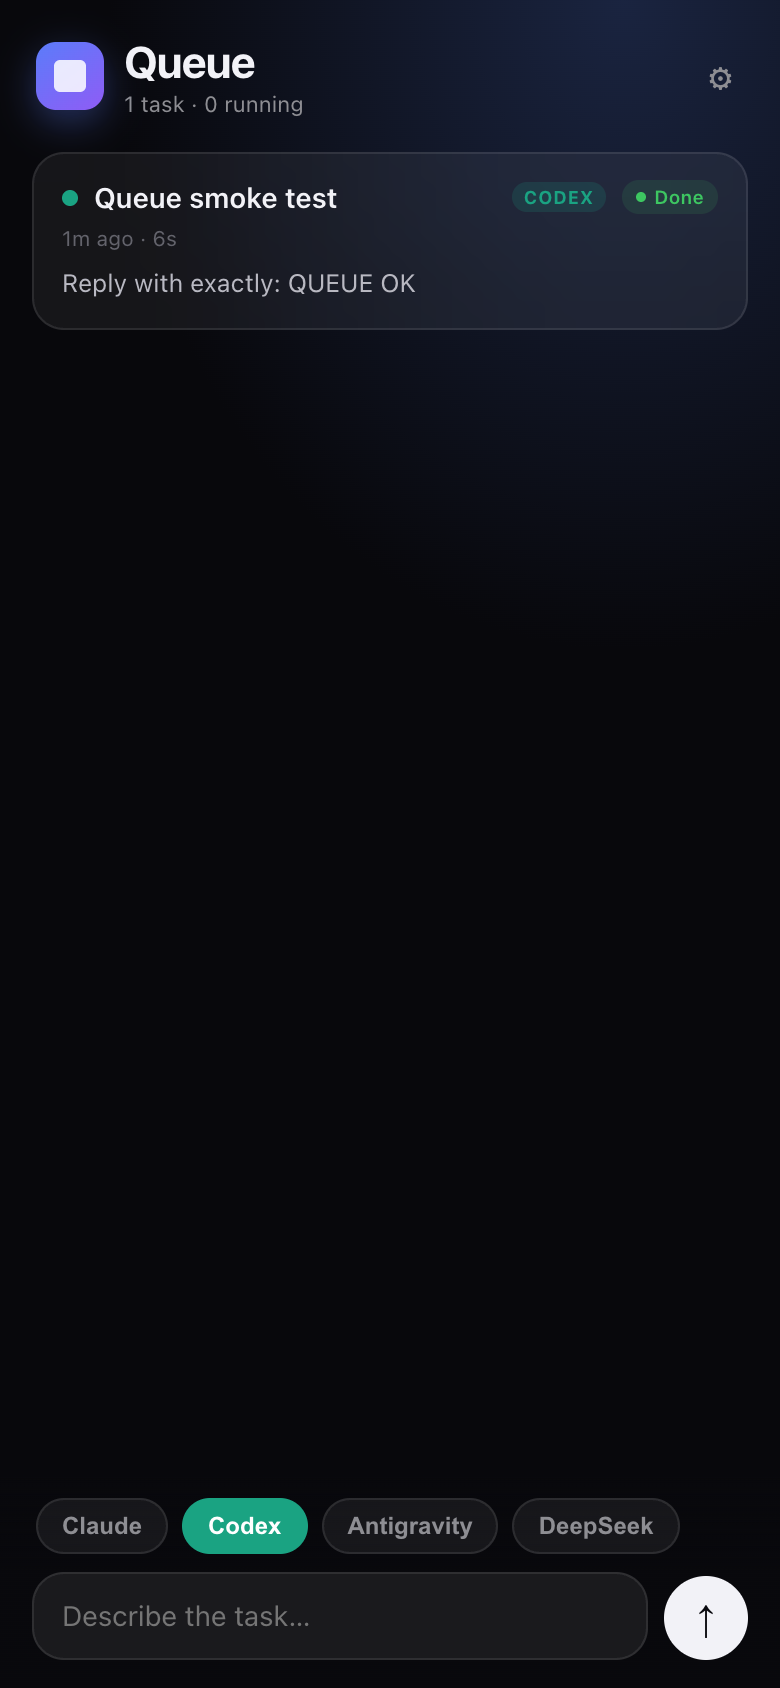
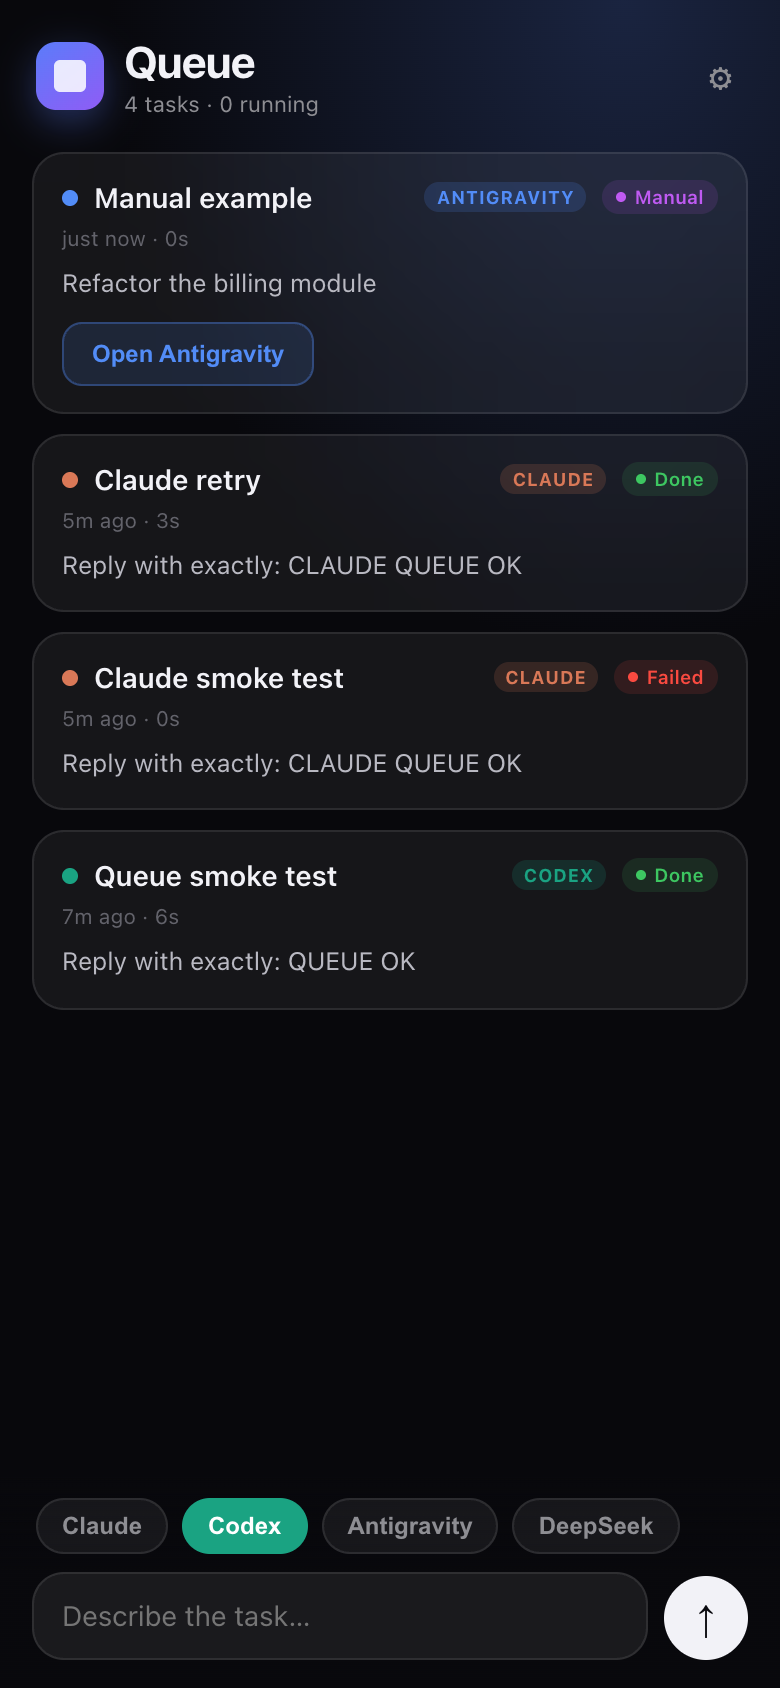
Queue: add Open <App> action
Brings the matching Mac app forward (bundle id first, then the .app path). Shown
inline on manual tasks and in the expanded actions elsewhere; from the phone it
opens the app on the Mac.

diff --git a/queue/web/app.js b/queue/web/app.js
@@ -45,12 +45,16 @@ function render() {
     const s = STATE[t.status] || STATE.queued;
     const open = expanded.has(t.id);
     const out = open ? '<pre class="out">' + esc(t.output || "…") + "</pre>" : "";
+    const openBtn = '<button data-act="open" data-id="' + t.id + '" data-model="' + t.model + '">Open ' + esc(m.label) + "</button>";
     const actions = open
-      ? '<div class="cardActions">' +
+      ? '<div class="cardActions">' + openBtn +
         (t.status !== "running" ? '<button data-act="retry" data-id="' + t.id + '">Retry</button>' : "") +
         '<button data-act="delete" data-id="' + t.id + '">Delete</button>' +
         (t.session_ref ? '<button data-act="session" data-ref="' + esc(t.session_ref) + '">Session ' + esc(t.session_ref.slice(0, 8)) + "…</button>" : "") +
         "</div>"
+      : "";
+    const manualOpen = t.status === "manual"
+      ? '<div class="manualRow">' + openBtn.replace('class="', 'class="primarySmall ').replace("<button", '<button style="background:' + m.color + '22;color:' + m.color + ';border-color:' + m.color + '55"') + "</div>"
       : "";
     return (
       '<article class="card" data-id="' + t.id + '">' +
@@ -62,7 +66,7 @@ function render() {
         "</div>" +
         '<p class="meta">' + ago(t.updated_at) + " · " + duration(t) + "</p>" +
         '<p class="prompt">' + esc(t.prompt) + "</p>" +
-        out + actions +
+        manualOpen + out + actions +
       "</article>"
     );
   }).join("");
@@ -130,6 +134,16 @@ $("#list").addEventListener("click", async (e) => {
   if (act) {
     e.stopPropagation();
     const id = act.dataset.id;
+    if (act.dataset.act === "open") {
+      act.disabled = true;
+      const r = await fetch("api/open", {
+        method: "POST", headers: { "Content-Type": "application/json" },
+        body: JSON.stringify({ model: act.dataset.model }),
+      });
+      act.textContent = r.ok ? "Opened ✓" : "App not found";
+      setTimeout(() => { act.disabled = false; act.textContent = "Open " + (MODELS[act.dataset.model]?.label || ""); }, 2000);
+      return;
+    }
     if (act.dataset.act === "retry") await fetch("api/tasks/" + id + "/retry", { method: "POST" });
     if (act.dataset.act === "delete") { await fetch("api/tasks/" + id, { method: "DELETE" }); expanded.delete(id); }
     await load();

diff --git a/queue/web/styles.css b/queue/web/styles.css
@@ -36,7 +36,9 @@ h1{font-size:22px;margin:0;letter-spacing:-.02em}
 pre.out{margin:9px 0 0;padding:9px 10px;border-radius:10px;background:rgba(0,0,0,.35);
   font:11px ui-monospace,SFMono-Regular,Menlo,monospace;color:#cfd3da;white-space:pre-wrap;
   max-height:220px;overflow:auto;border:.5px solid rgba(255,255,255,.06)}
-.cardActions{display:flex;gap:14px;margin-top:9px;font-size:10.5px}
+.cardActions{display:flex;gap:14px;margin-top:9px;font-size:10.5px;flex-wrap:wrap}
+.manualRow{margin-top:10px}
+.manualRow button{border:.5px solid;border-radius:10px;padding:8px 14px;font-size:12px;font-weight:600;cursor:pointer;background:none}
 .cardActions button{background:none;border:0;color:var(--dim);padding:0;cursor:pointer}
 .cardActions button:active{color:var(--text)}
 .composer{position:fixed;left:0;right:0;bottom:0;padding:10px 16px calc(14px + env(safe-area-inset-bottom));

diff --git a/queue/server.py b/queue/server.py
@@ -37,6 +37,25 @@ MODELS = {
     "deepseek": {"label": "DeepSeek", "runnable": False},
 }
 
+# How to bring the matching Mac app forward.
+APPS = {
+    "claude": ("com.anthropic.claudefordesktop", "/Applications/Claude.app"),
+    "codex": ("com.openai.codex", "/Applications/ChatGPT.app"),
+    "antigravity": ("com.google.antigravity", "/Applications/Antigravity.app"),
+    "deepseek": ("com.deepseek.dsh", "/Applications/DeepSeek Harness.app"),
+}
+
+
+def open_app(model):
+    bundle, path = APPS.get(model, (None, None))
+    if bundle:
+        done = subprocess.run(["open", "-b", bundle], capture_output=True)
+        if done.returncode == 0:
+            return True
+    if path and os.path.exists(path):
+        return subprocess.run(["open", path], capture_output=True).returncode == 0
+    return False
+
 
 def token():
     try:
@@ -416,6 +435,11 @@ class Handler(BaseHTTPRequestHandler):
                 if key in body:
                     set_setting(key, (body.get(key) or "").strip())
             return self._send(200, json.dumps({"ok": True}))
+
+        if rest == "api/open":
+            model = body.get("model") or ""
+            ok = open_app(model) if model in APPS else False
+            return self._send(200 if ok else 502, json.dumps({"ok": ok, "model": model}))
 
         if rest.startswith("api/tasks/") and rest.endswith("/retry"):
             tid = rest.split("/")[2]

diff --git a/queue/README.md b/queue/README.md
@@ -24,6 +24,11 @@ as the limits widget. Installable on iPhone (Share -> Add to Home Screen).
 
 Tasks are honest about this: a Manual card says so instead of pretending to run.
 
+**Open <App>.** Every card has an action that brings the matching Mac app forward
+(`open -b <bundle-id>`, falling back to the .app path). It is shown inline on Manual
+cards so you can hand the task straight over, and in the expanded actions on the rest.
+Tapping it from your phone opens the app **on the Mac**.
+
 ## Supabase sync (optional)
 
 Sync makes the queue visible across devices: queue a task on the phone, the Mac picks
